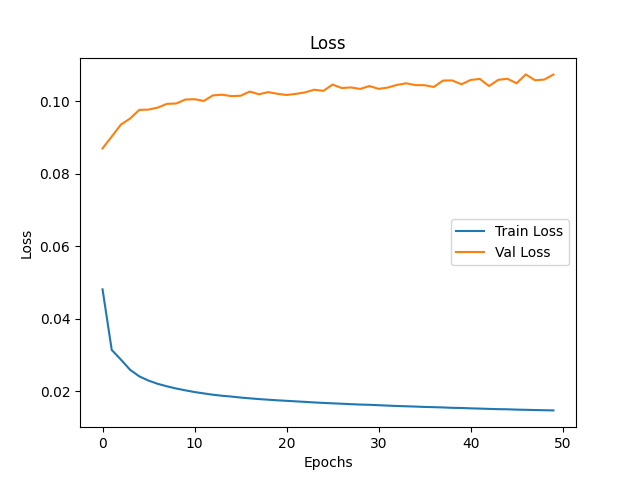
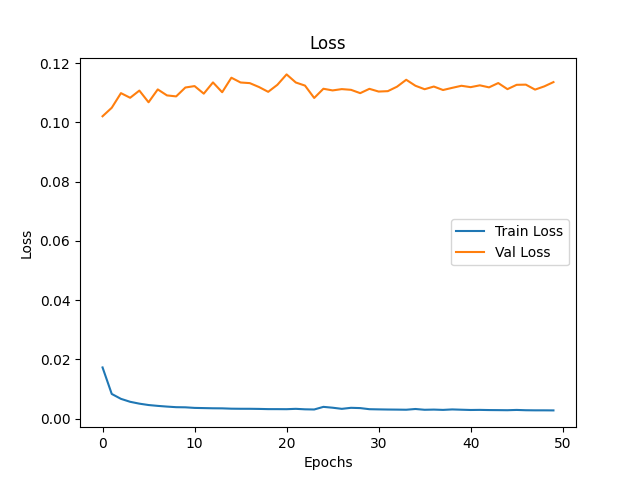
added fcn as compensator

diff --git a/compensation_models.py b/compensation_models.py
@@ -1,6 +1,8 @@
 """This file implements the compensation models for motion artifacts. 
 Implemented models:
-1- DRDNN method from Antczak, 2018"""
+1- DRDNN method from Antczak, 2018
+2- Fully Conv Net DAE from Chiang, 2019"""
+
 
 import torch
 import torch.nn as nn
@@ -59,7 +61,72 @@ class DRDNN(nn.Module):
     
 
 
+class FCN_DAE(nn.Module):
+    def __init__(self, in_channels=1):
+        super(FCN_DAE, self).__init__()
 
+        # First set of Conv,Relu,Pooling,Dropout
+        self.conv1 = nn.Conv1d(in_channels=in_channels, out_channels=20, kernel_size=16, stride=2, padding=7)
+        self.relu1 = nn.ReLU()
+
+        # 2nd
+        self.conv2 = nn.Conv1d(in_channels=20, out_channels=40, kernel_size=16, stride=2, padding=7)
+        self.relu2 = nn.ReLU()
+
+        #3rd
+        self.conv3 = nn.Conv1d(in_channels=40, out_channels=80, kernel_size=16, stride=2, padding=7)
+        self.relu3 = nn.ReLU()
+
+        #4th
+        self.conv4 = nn.Conv1d(in_channels=80, out_channels=160, kernel_size=8, stride=1, padding=1)
+        self.relu4 = nn.ReLU()
+
+        # decoder
+
+        self.deconv1 = nn.ConvTranspose1d(in_channels=160, out_channels=80, kernel_size=8, stride=1, padding=1)
+        self.relu5 = nn.ReLU()
+
+        self.deconv2 = nn.ConvTranspose1d(in_channels=80, out_channels=40, kernel_size=16, stride=2, padding=7)
+        self.relu6 = nn.ReLU()
+
+        self.deconv3 = nn.ConvTranspose1d(in_channels=40, out_channels=20, kernel_size=16, stride=2, padding=7)
+        self.relu7 = nn.ReLU()
+
+        self.deconv4 = nn.ConvTranspose1d(in_channels=20, out_channels=1, kernel_size=16, stride=2, padding=7)
+
+    def forward(self, x):
+        # Defines the forward pass
+
+        x = self.conv1(x)
+        x = self.relu1(x)
+
+        x = self.conv2(x)
+        x = self.relu2(x)
+
+        x = self.conv3(x)
+        x = self.relu3(x)
+
+        x = self.conv4(x)
+        x = self.relu4(x)
+
+        x = self.deconv1(x)
+        x = self.relu5(x)
+
+        x = self.deconv2(x)
+        x = self.relu6(x)
+
+        x = self.deconv3(x)
+        x = self.relu7(x)
+
+        x = self.deconv4(x)
+
+        return x
+
+
+if __name__ == "__main__":
+    model_temp = FCN_DAE()
+    X = torch.Tensor (np.ones((1024,1,120)))
+    model_temp.forward(X)
 
     
     

diff --git a/train_compensator.py b/train_compensator.py
@@ -28,15 +28,15 @@ from sklearn.metrics import ConfusionMatrixDisplay, confusion_matrix
 from custom_dataset_for_dataloader import CustomDataset
 from classification_models import NoiseDetector
 from load_data_from_tensors import LoadDataFromTensor
-from compensation_models import DRDNN
+from compensation_models import DRDNN, FCN_DAE
 
 
 class CompensationTrainer():
     def __init__(self, lr, batch_size, no_epochs, 
                  X_train, y_train, X_test, y_test,
-                 model_name = "drdnn"):
+                 model_arch = "drdnn"):
         
-        self.model_name = model_name
+        self.model_name = model_arch
         self.lr = lr
         self.batch_size = batch_size
         self.no_epochs = no_epochs
@@ -65,6 +65,9 @@ class CompensationTrainer():
         
         if self.model_name == "drdnn":
             self.model = DRDNN(batch_size=self.batch_size).to(device=self.device)
+        
+        elif self.model_name == "fcn-dae":
+            self.model = FCN_DAE().to(device=self.device)
        # more models can be added here for extensions 
 
         self.opt = optim.Adam(self.model.parameters(), lr=self.lr)
@@ -104,7 +107,8 @@ class CompensationTrainer():
                 self.opt.zero_grad()
                 # perform a forward pass and calculate the training loss
                 pred = self.model(X_batch)
-                pred = torch.unsqueeze(pred,dim=1)
+                if self.model_name == "drdnn":
+                    pred = torch.unsqueeze(pred,dim=1)
                 loss = self.lossFn(pred, y_batch)
 
                 # add the loss to the total training loss so far and
@@ -139,7 +143,8 @@ class CompensationTrainer():
 
                     # make the predictions and calculate the validation loss
                     pred = self.model(X_batch)
-                    pred = torch.unsqueeze(pred,dim=1)
+                    if self.model_name == "drdnn":
+                        pred = torch.unsqueeze(pred,dim=1)
                     lossVal = self.lossFn(pred, y_batch)
 
                     totalValLoss = totalValLoss + lossVal

diff --git a/nxm_quality_assessment.py b/nxm_quality_assessment.py
@@ -31,11 +31,12 @@ if __name__ == "__main__":
 
     # define training hyperparameters
     INIT_LR = 5e-4
-    BATCH_SIZE = 16384
+    BATCH_SIZE = 1024
     EPOCHS = 50
     CHOSEN_DATASET = "um"
     RANDOM_SEED = 31
     TEST_SIZE = 0.2
+    COMPENSATOR_ARCH = "fcn-dae"
 
     # set the device we will be using to train the model
     device = torch.device("cuda" if torch.cuda.is_available() else "cpu")
@@ -85,6 +86,7 @@ if __name__ == "__main__":
     compensator = CompensationTrainer(lr=INIT_LR,
                                       batch_size=BATCH_SIZE,
                                       no_epochs=EPOCHS,
+                                      model_arch=COMPENSATOR_ARCH,
                                       X_train=X_train,
                                       y_train=X_train_reference, 
                                       X_test=compensation_X_test,

diff --git a/train.py b/train.py
@@ -170,12 +170,13 @@ class ClassificationTrainer():
                         zero_indices = np.where(predictions.cpu().numpy() == 0)[0] 
 
 
-                        for idx in tqdm(zero_indices):
+                        for idx in zero_indices:
                             compensation_X_test_segments.append(np.array(X_batch[idx,:,:].cpu()))
                             real_idx = batch_counter * self.batch_size + idx
                             corresponding_X_test_reference.append(np.array(self.X_test_reference[real_idx,:].cpu()))
                         
                         batch_counter = batch_counter + 1
+                        
 
 
 
